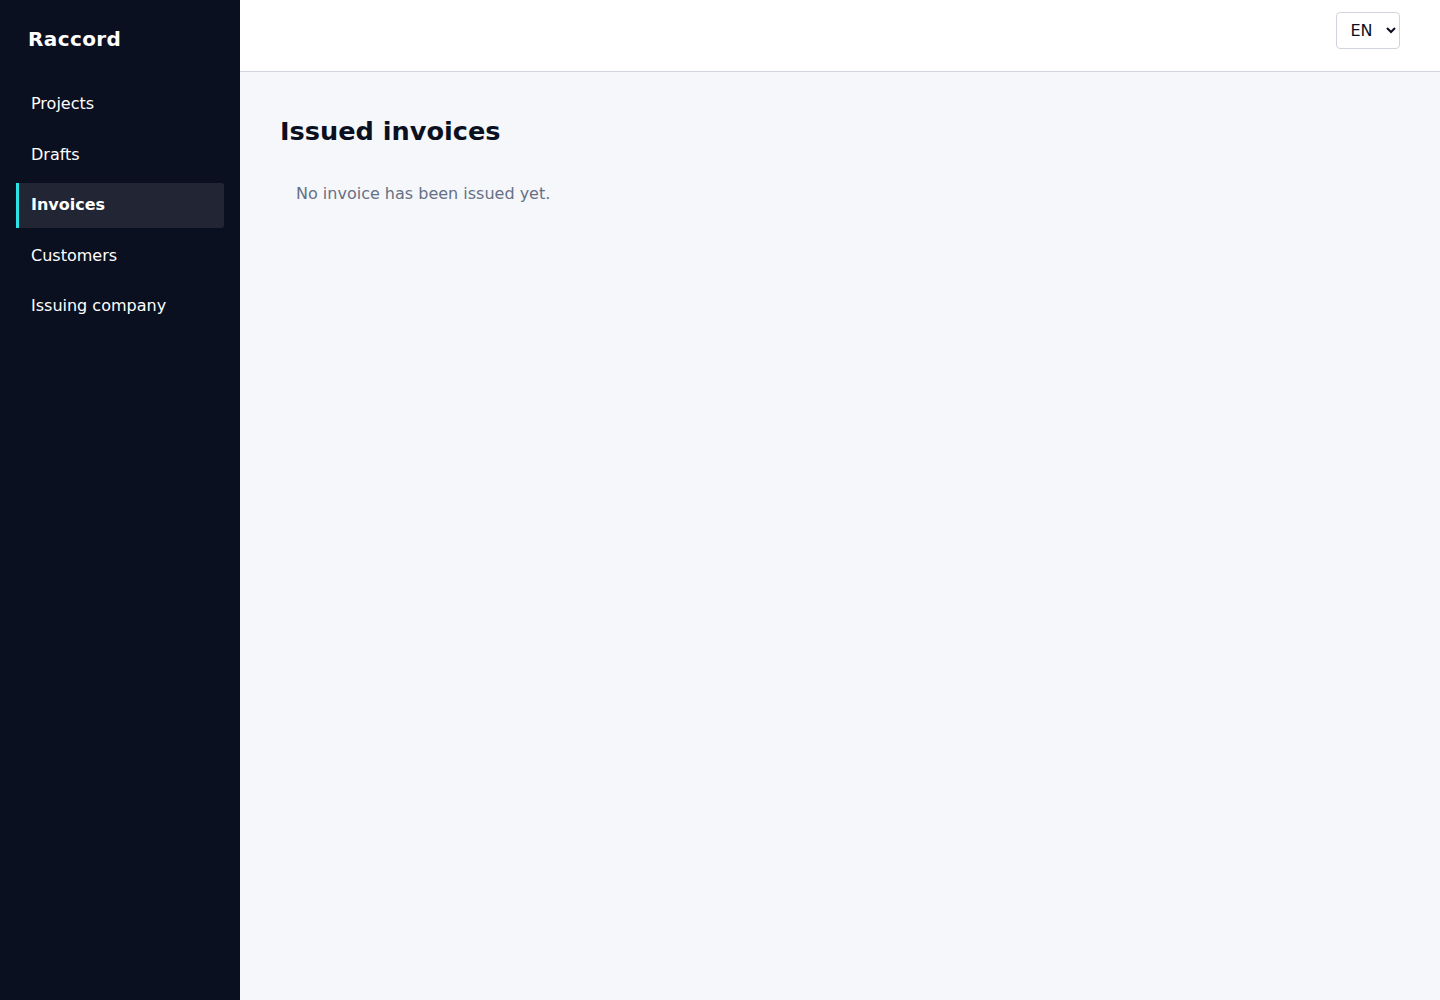
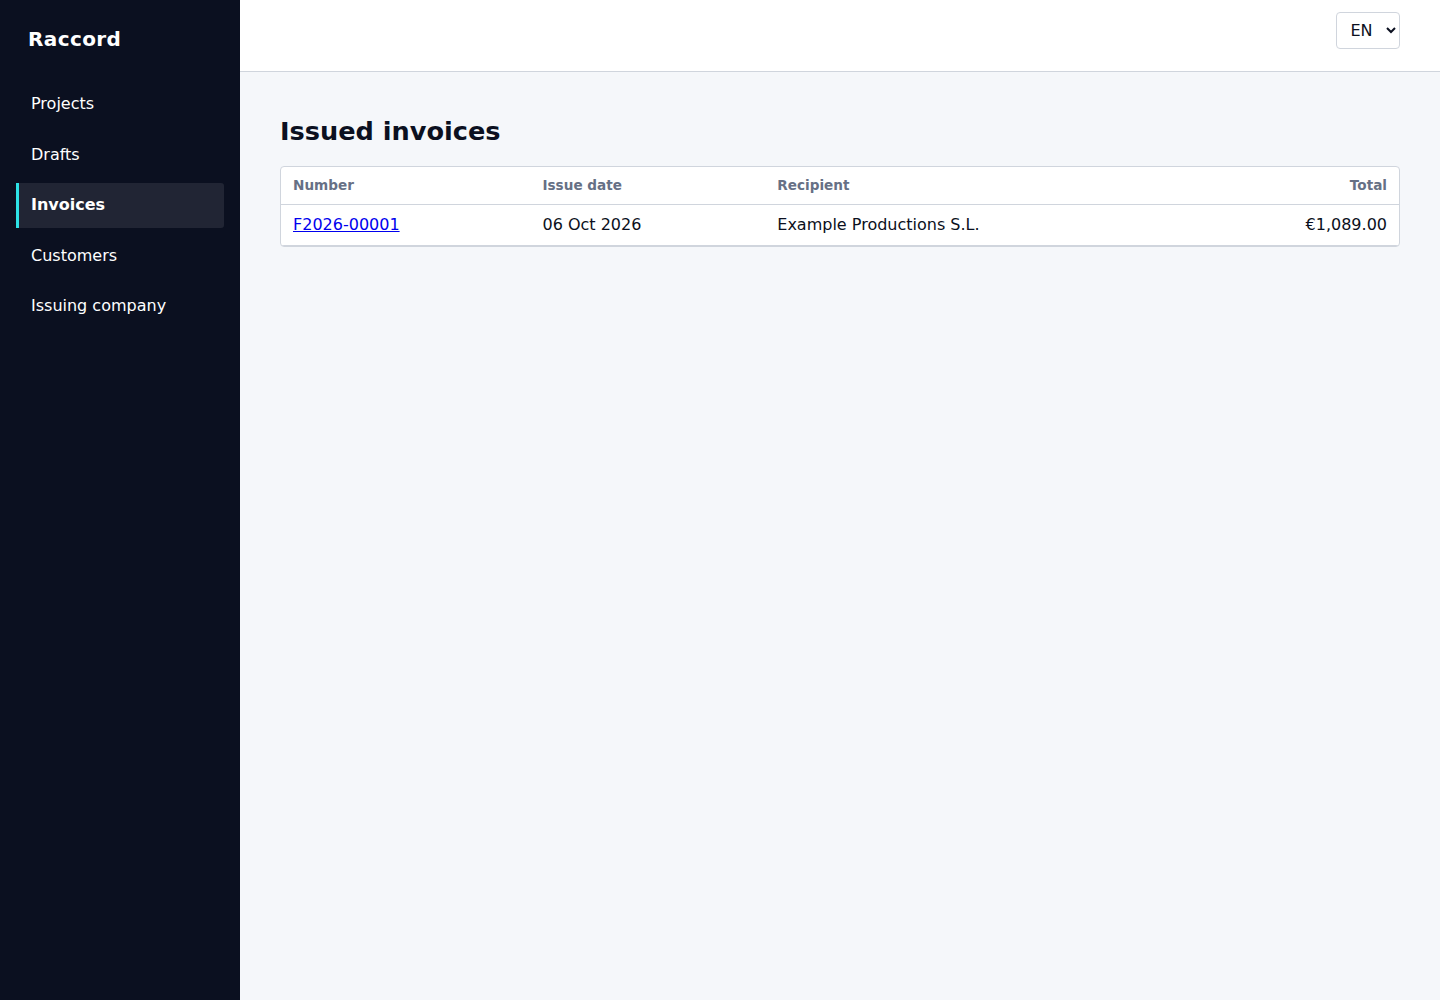
docs: capture all implemented UI routes for review

Changed region(s): [[0.1875, 0.155, 0.4688, 0.248], [0.5312, 0.155, 0.6875, 0.248], [0.9062, 0.155, 0.9688, 0.248]]

diff --git a/docs/product/design/evidence/issue-70/README.md b/docs/product/design/evidence/issue-70/README.md
@@ -1,15 +1,8 @@
 # Issue 70 runtime evidence
 
-Captured from the Vite-served React app at `/projects` using Chromium. The Vite API proxy was pointed at a temporary local stub returning an empty list, so this records the real application shell, projects empty state, and responsive layout—not backend integration or populated workflows.
+Captured from the Vite-served React app using Chromium. The Vite API proxy was pointed at a temporary local fixture server returning representative project, customer, draft, invoice, and issuer data. This records the actual React routes/layouts but does not verify backend integration or business behavior.
 
-- `projects-desktop.png` — 1440 × 1000
-- `projects-narrow.png` — 390 × 844
-- `project-creation-desktop.png` — 1440 × 1000
-- `project-creation-narrow.png` — 390 × 844
-- `customers-desktop.png` / `customers-narrow.png`
-- `customer-creation-desktop.png` / `customer-creation-narrow.png`
-- `drafts-desktop.png` / `drafts-narrow.png`
-- `invoices-desktop.png` / `invoices-narrow.png`
-- `issuer-settings-desktop.png` / `issuer-settings-narrow.png`
+- Desktop (1440 × 1000) and narrow (390 × 844) captures exist for every in-scope route: projects list/create/detail, customers list/create, drafts list/detail, invoices list/detail, and issuer settings.
+- `invoices-desktop-es.png` and `invoices-narrow-es.png` show the Spanish invoice-list locale.
 
-List routes show their existing empty states because the stub returns empty collections. The new-project screenshot shows the existing “register a customer first” prerequisite; the customer-creation screenshot shows its form. Project, draft, and invoice detail routes and populated data states were not captured. The captures use the English UI only. Full visual acceptance still requires Owner review against the mapped references and all route states.
+The static fixture uses synthetic data only. The captures were opened and visually reviewed at both sizes; they do not replace API-backed end-to-end verification. Owner approval of visual acceptance against the mapped references remains pending.
